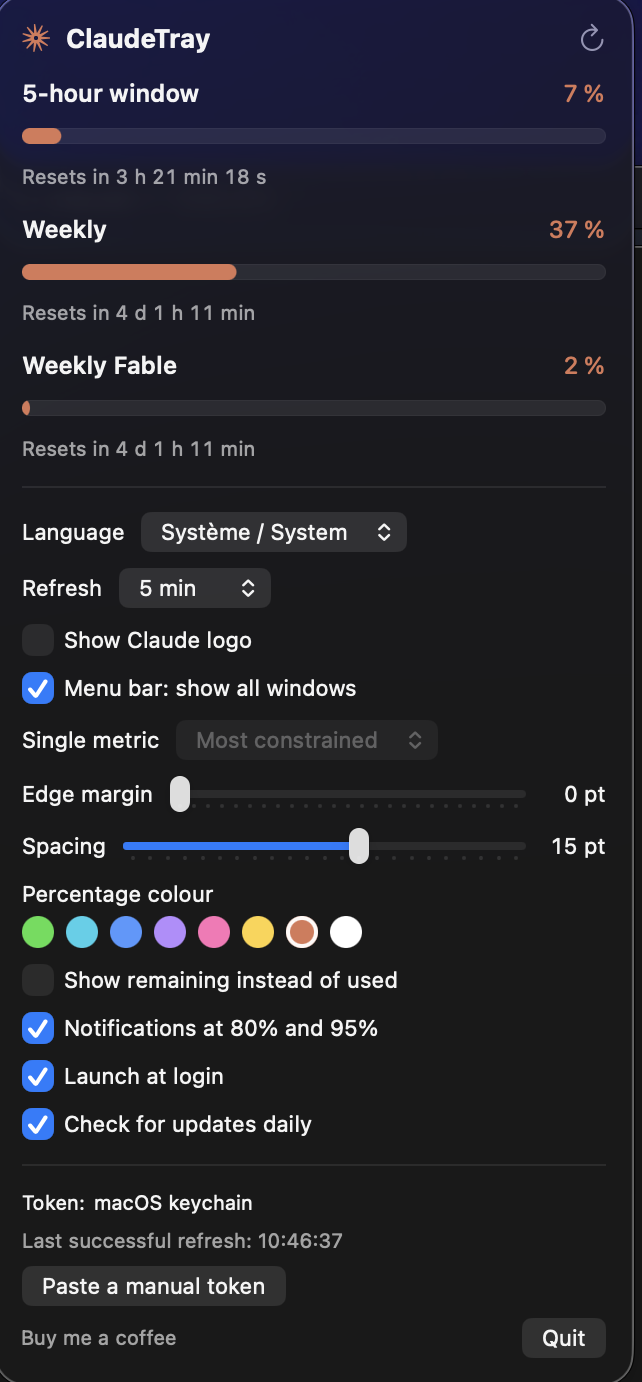
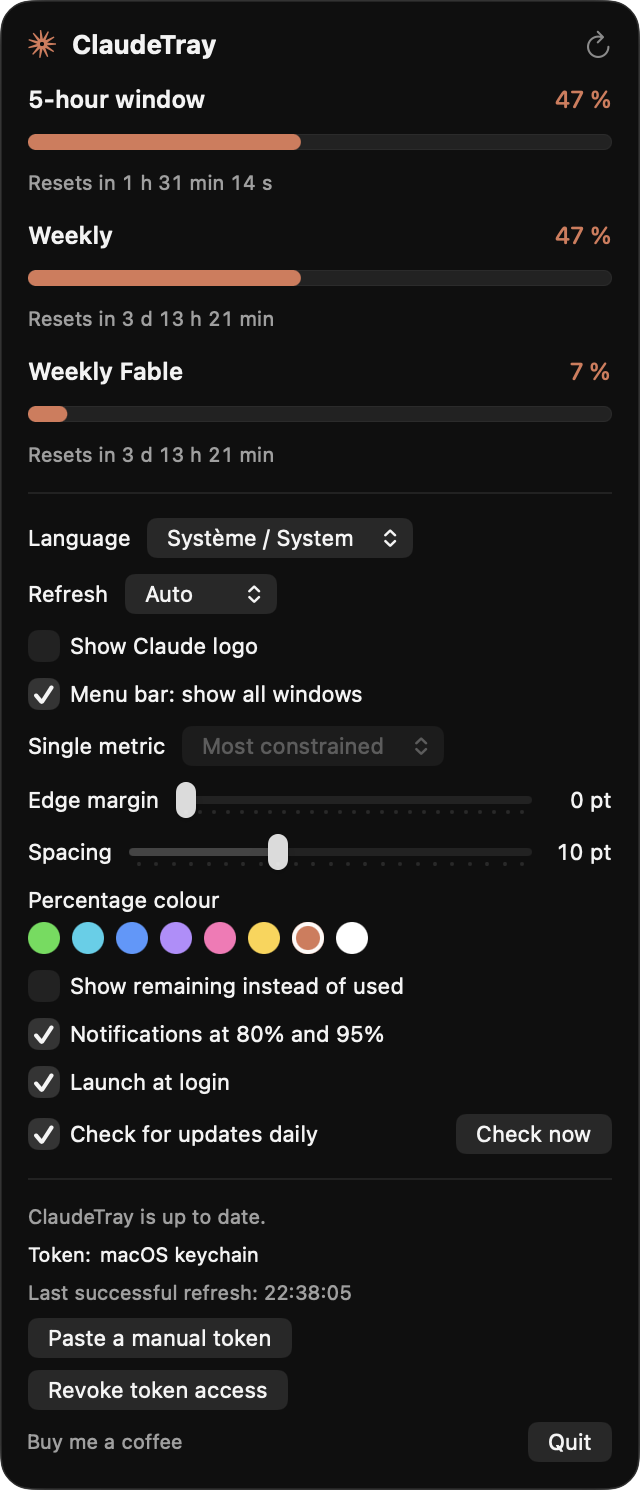
Capture du popover en 1.4 et lien de mise a jour precise

Changed region(s): [[0.0, 0.0, 1.0, 1.0], [0.75, 0.7467, 0.9375, 0.7779]]

diff --git a/README.md b/README.md
@@ -108,7 +108,8 @@ quota and disappears otherwise. No empty rows are left behind.
 The popover footer always shows which token source the last call used — including when that call
 failed, so a rejected manual token is named as such instead of leaving the previous source on
 screen — the time of the last successful refresh, and the current error message if there is one.
-When a newer release is out, a link to it appears there too.
+When a newer release is out, a link to its GitHub page appears there too — ClaudeTray never
+downloads or installs anything, so replacing the app stays a manual drag from the DMG.
 
 ## Security and privacy
 
